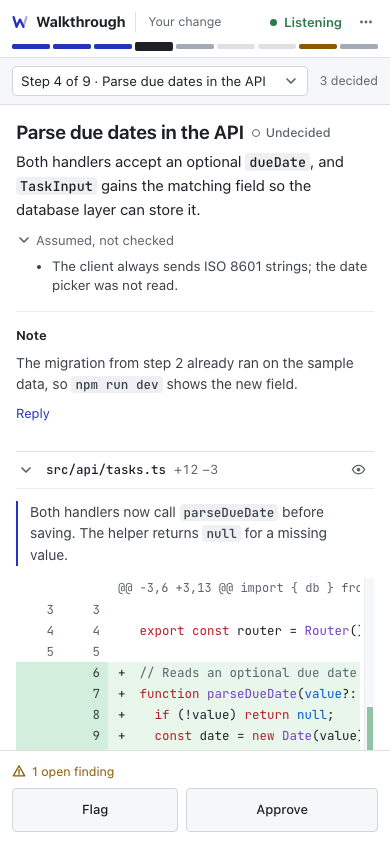
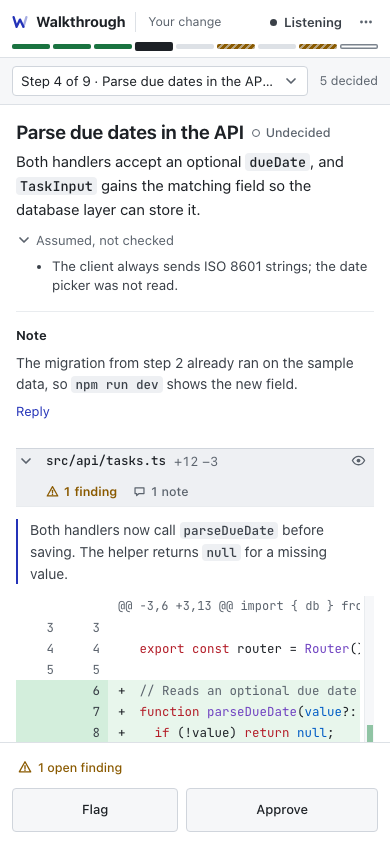
The README shows the round 4 page and the Summary

diff --git a/README.md b/README.md
@@ -57,7 +57,8 @@ To review a change someone asked you to review, run `/walkthrough:pr` with its n
 ```
 
 The session fetches the change as your policy says, without checking it out.
-Your comments become drafts marked `[AI]` that you post, edit or drop on the page, and what you post goes into one pending review that you submit yourself.
+The session's comments become drafts marked `[AI]` that you can edit or drop on the page.
+When you send your review, every draft you kept goes out with your own comments, all together in one pending review that you submit yourself.
 Open the same change again after its author replied or pushed, and the walkthrough goes on where you left it.
 
 These are the two kinds of walkthrough, your own change and a review request.
@@ -107,7 +108,7 @@ Uncommitted edits are left out, with a warning, and nothing is ever checked out.
    After a decision, Undo takes it back, and the session gets that too.
    Any decision stays changeable until the end, and an undecided item never reads as approved.
 8. **Summary and verdict.**
-   The last entry of the queue, or Finish review in the header (G S), is the Summary: every step with what you decided, what is still open first (undecided, being checked or changed since you decided), your flag notes and comments under their steps, the comments the session drafted (`[AI]` drafts) you accepted, edited or dropped, and beside it the verdict, the finishing actions and the checklist.
+   The last entry of the queue, or Finish review in the header (G S), is the Summary: every step with what you decided, what is still open first (undecided, being checked or changed since you decided) with its actions on each row, your flag notes and comments under their steps, the comments the session drafted (`[AI]` drafts) and whether each goes out as drafted, edited or dropped, and beside it the verdict, the finishing actions and the checklist.
    You choose your verdict there, from the choices your policy offers, such as Approve, Request changes or Comment on a review request.
    Until then the walkthrough reads "No verdict yet", and the finishing action, such as sending the fix list to the session or sending your review, waits for it.
    Once chosen, the verdict shows quietly in the header, on the list of walkthroughs and in the export.
@@ -129,7 +130,7 @@ Your choice of panels, accent (Ultramarine, Petrol or Berry) and theme (System, 
 | | |
 | --- | --- |
 | ![The default panels: the queue and the step](docs/images/layout-queue.png) | ![The checklist panel at the right](docs/images/layout-three.png) |
-| ![The explanation column beside the code](docs/images/layout-split.png) | |
+| ![The explanation column beside the code](docs/images/layout-split.png) | ![The Summary: what is still open, what you decided, the drafted comments and the verdict](docs/images/summary.png) |
 
 It works on a phone as well.
 At 390px the actions move to a bottom bar, the panels stack under the step and their switches move into the More menu, and "Swipe to decide" there lets you swipe a step right to approve or left to flag.
